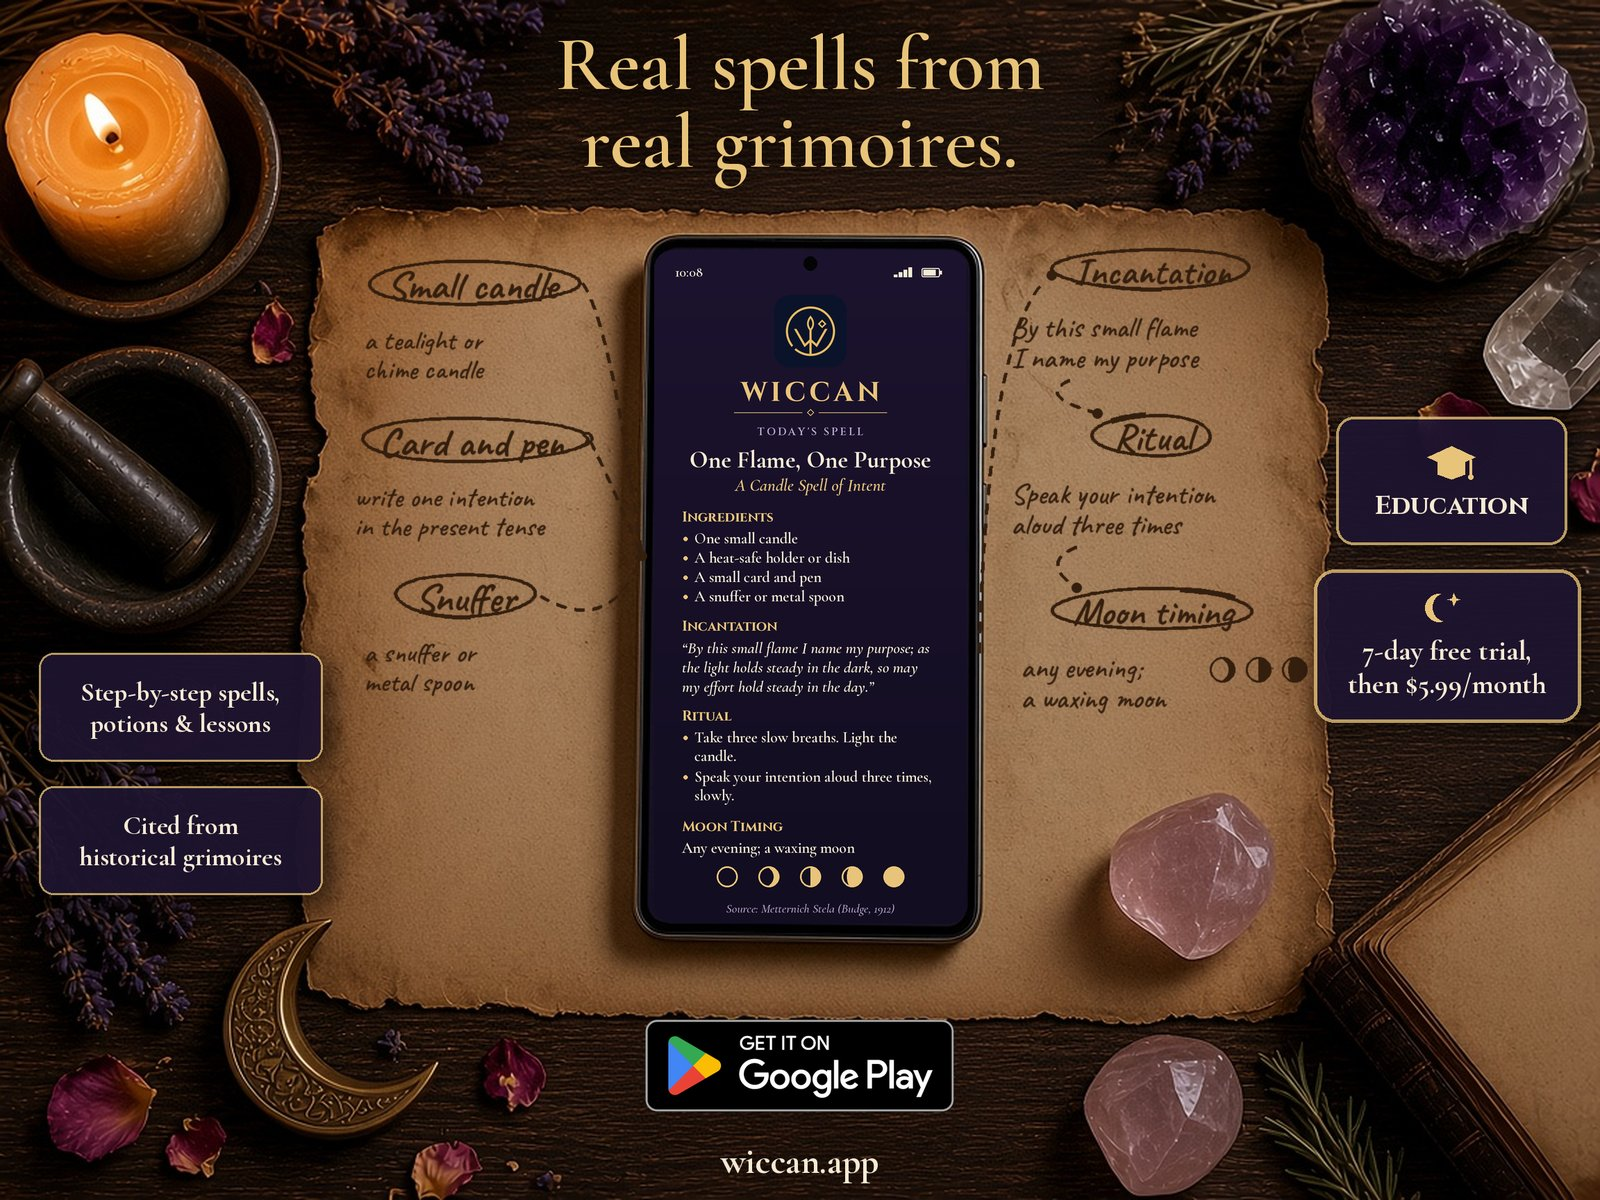
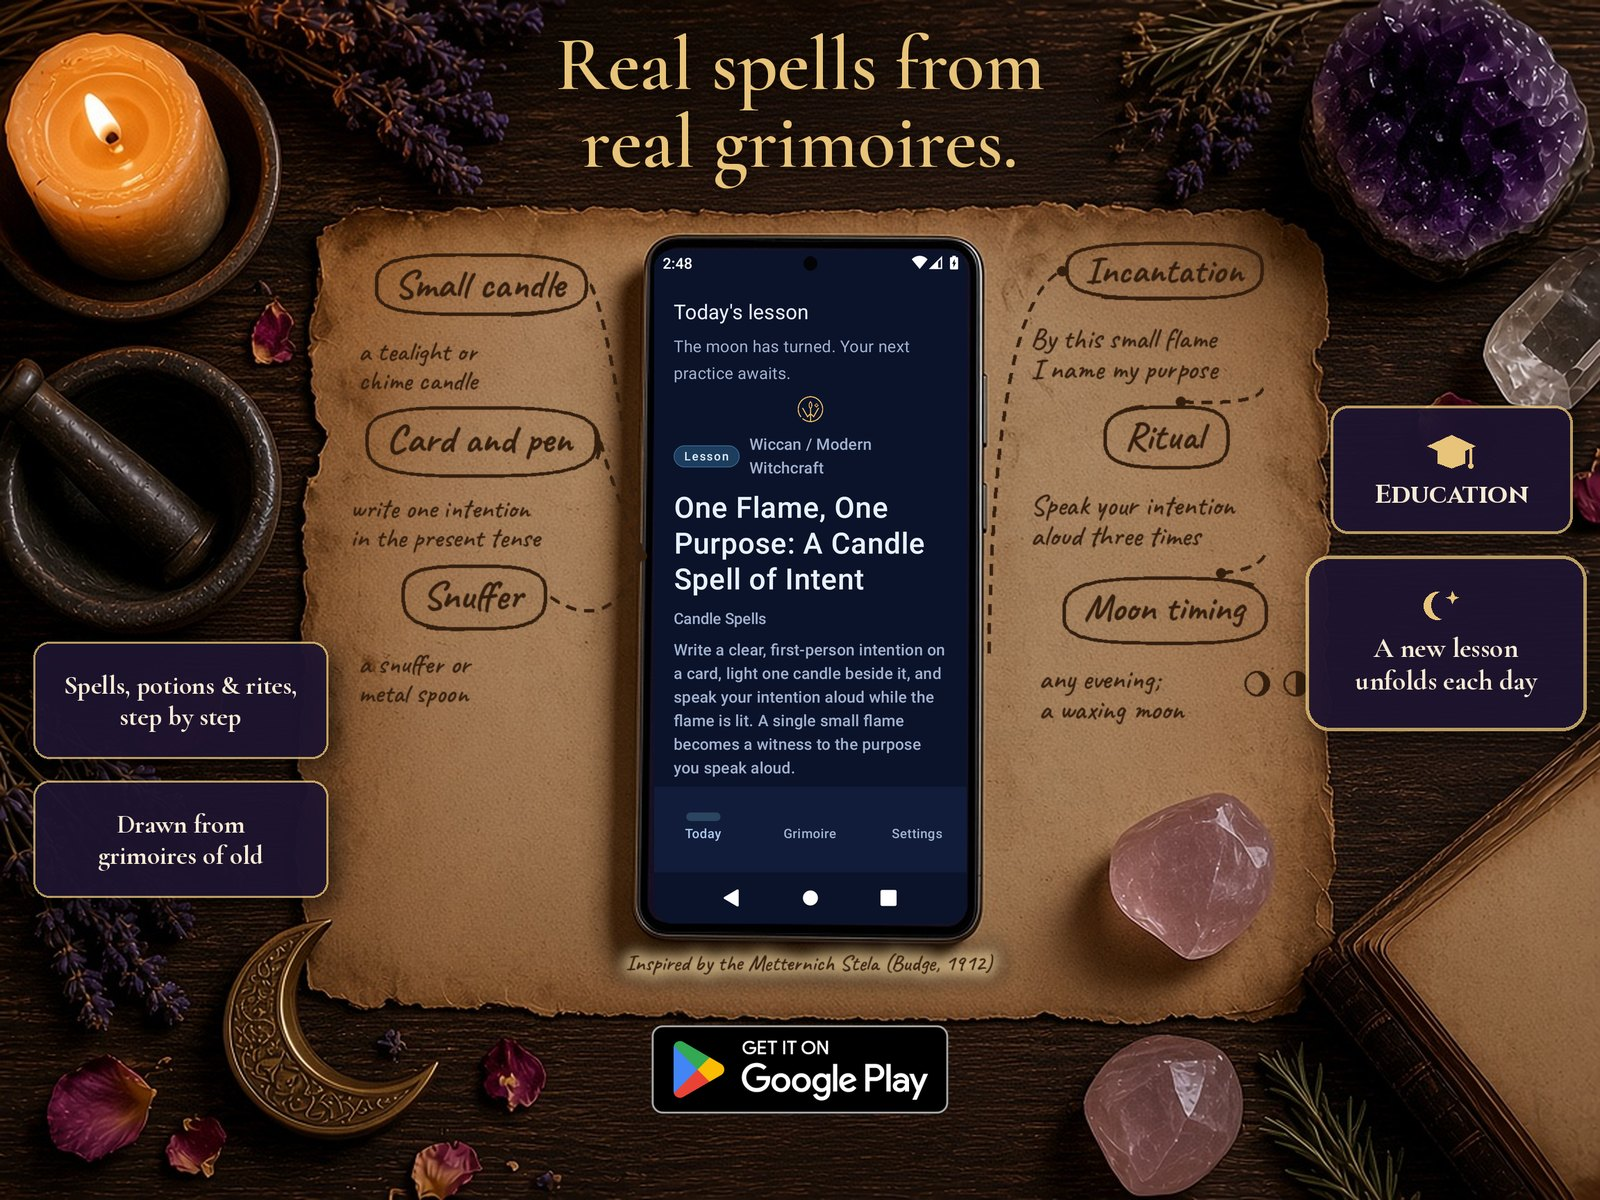
Use the updated no-price spell-map promo card; drop the duplicate tagline caption

diff --git a/hosting/index.html b/hosting/index.html
@@ -50,15 +50,18 @@
     </div>
   </section>
 
-  <section class="section promo-section" aria-labelledby="promo-tagline">
+  <section class="section promo-section" aria-labelledby="promo-title">
+    <div class="section-heading">
+      <p class="kicker">By candlelight</p>
+      <h2 id="promo-title">Every rite, mapped like an old spellbook page.</h2>
+    </div>
     <figure class="promo">
       <a href="https://play.google.com/store/apps/details?id=com.jaimesorrow.wiccan" target="_blank" rel="noopener noreferrer">
         <picture>
           <source srcset="/assets/promo-card.webp" type="image/webp">
-          <img src="/assets/promo-card.jpg" width="1600" height="1200" loading="lazy" decoding="async" alt="Promotional artwork (AI-generated scene, not an app screenshot): an Android phone showing the Wiccan app open to the candle spell “One Flame, One Purpose,” lying on aged parchment. A hand-inked spell map circles its ingredients (small candle, card and pen, snuffer) and links them to the incantation, the ritual, and waxing-moon timing, among candles, lavender, and crystals. Cards read: Step-by-step spells, potions &amp; lessons; Cited from historical grimoires; Education; 7-day free trial, then $5.99/month; with a Get it on Google Play badge.">
+          <img src="/assets/promo-card.jpg" width="1600" height="1200" loading="lazy" decoding="async" alt="A spell map by candlelight. Promotional artwork: an Android phone showing the Wiccan app open to the lesson &ldquo;One Flame, One Purpose: A Candle Spell of Intent&rdquo; lies on aged parchment in an AI-generated scene with a lit candle, a mortar and pestle, lavender, amethyst, rose quartz, and a brass crescent moon. Hand-inked notes circle the ingredients (small candle, card and pen, snuffer) and link them to the incantation, the ritual, and waxing-moon timing, with the credit &ldquo;Inspired by the Metternich Stela (Budge, 1912).&rdquo; Headline: Real spells from real grimoires. Cards read: Spells, potions &amp; rites, step by step; Drawn from grimoires of old; Education; A new lesson unfolds each day. A Get it on Google Play badge sits below.">
         </picture>
       </a>
-      <figcaption class="promo-tagline" id="promo-tagline">Real spells from real grimoires.</figcaption>
     </figure>
   </section>
 

diff --git a/hosting/styles.css b/hosting/styles.css
@@ -517,4 +517,3 @@ main { padding-bottom: 40px; }
 .promo { margin: 0 auto; max-width: 1100px; text-align: center; }
 .promo a { display: block; border-radius: var(--radius); overflow: hidden; box-shadow: var(--shadow); border: 1px solid var(--outline); }
 .promo img { display: block; width: 100%; height: auto; }
-.promo-tagline { margin-top: 1.1rem; color: var(--gold); font-family: var(--display); font-size: clamp(1.25rem, 3vw, 1.9rem); letter-spacing: 0.04em; }
